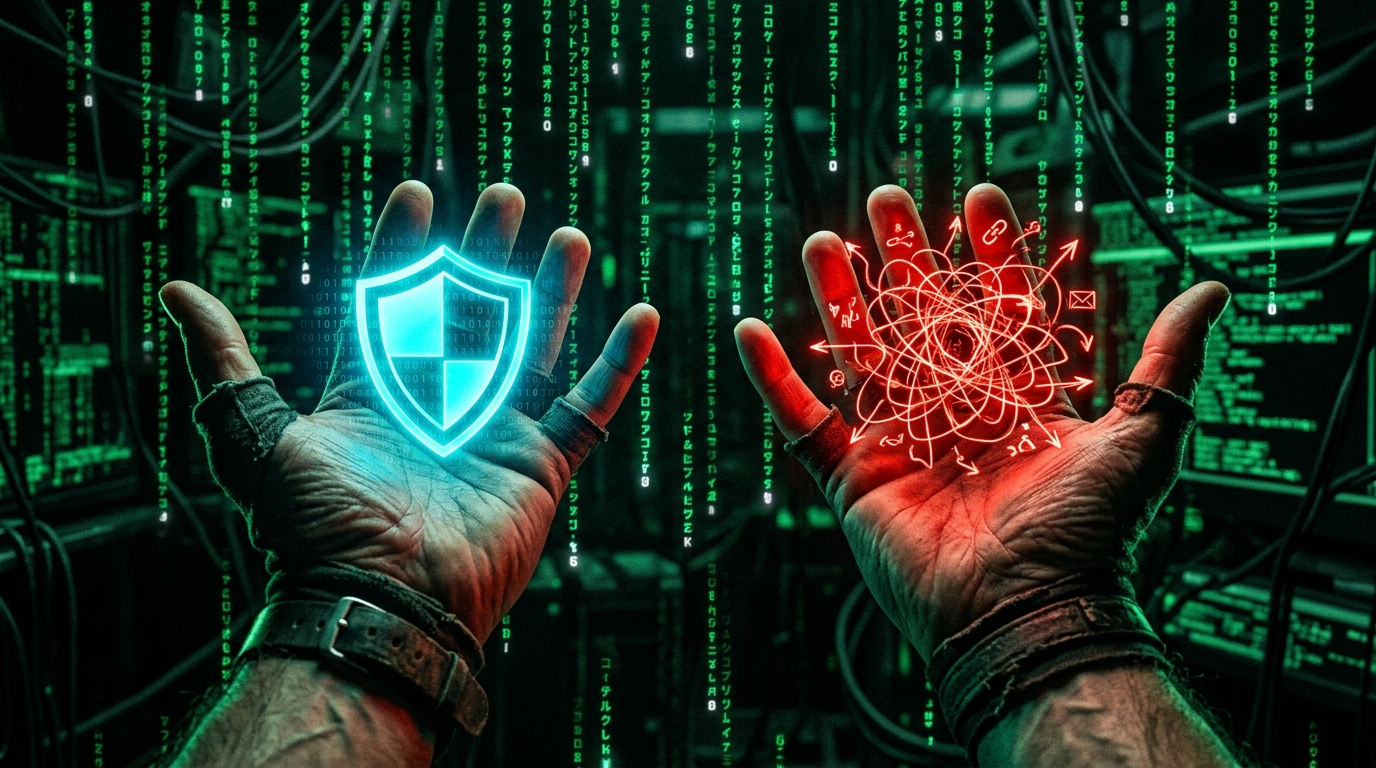
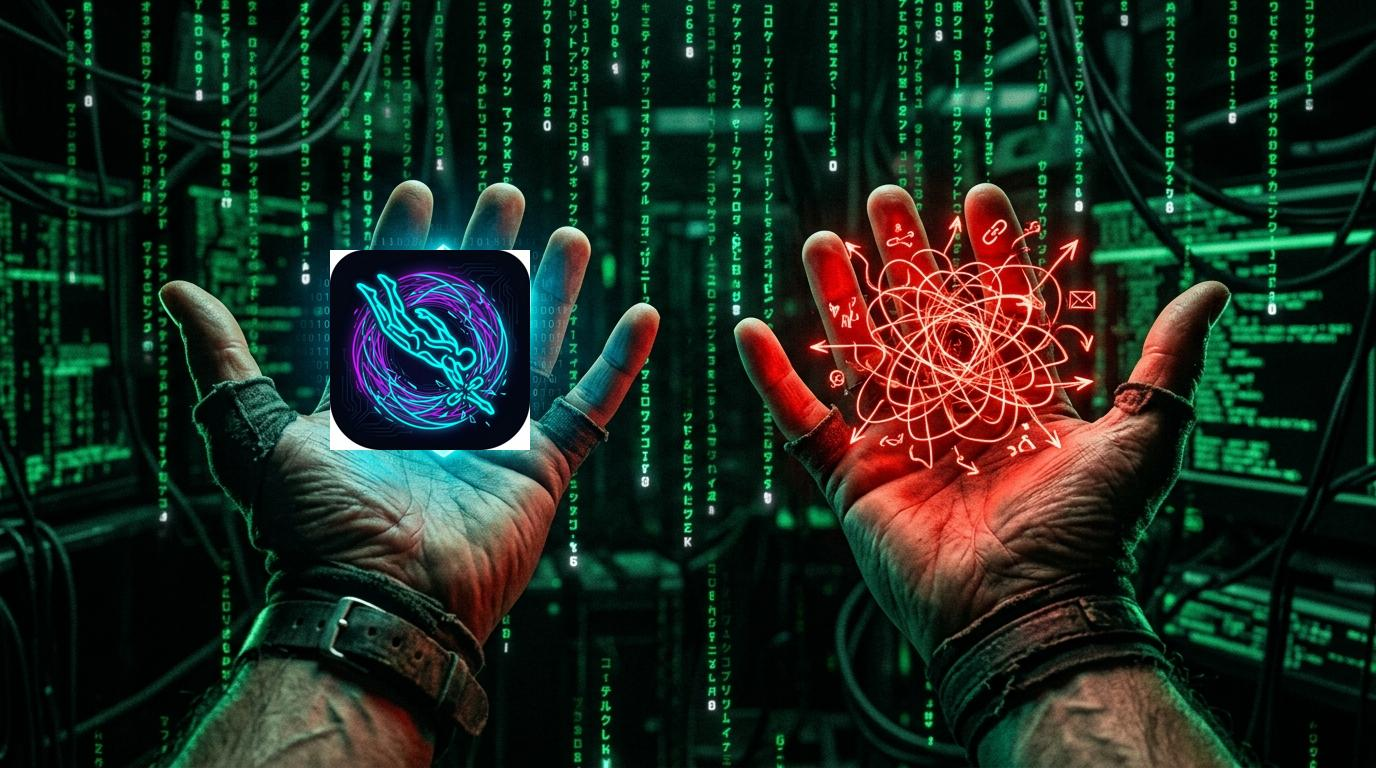
Fix HTML layout and reposition hero image

Changed region(s): [[0.2188, 0.3125, 0.4062, 0.5938]]

diff --git a/index.html b/index.html
@@ -10,7 +10,7 @@
     <link rel="preconnect" href="https://fonts.googleapis.com">
     <link rel="preconnect" href="https://fonts.gstatic.com" crossorigin>
     <link href="https://fonts.googleapis.com/css2?family=Share+Tech+Mono&display=swap" rel="stylesheet">
-    <link rel="stylesheet" href="styles.css?v=5">
+    <link rel="stylesheet" href="styles.css?v=6">
     <link rel="icon" type="image/png" href="app-icon.png">
     <!-- Google Analytics -->
     <script async src="https://www.googletagmanager.com/gtag/js?id=G-DCBG7D68JL"></script>
@@ -41,7 +41,6 @@
 
     <main>
         <section class="hero container">
-            <img src="choice.jpg" alt="Choose your pill" class="hero-image">
             <div class="hero-badge">🚀 Now Available on Android & iOS</div>
             
             <div class="hero-content">
@@ -50,6 +49,8 @@
                     Stop scrolling aimlessly. AntiRecsys helps you browse social media with intention by focusing on topics
                     YOU choose, not what algorithms want you to see.
                 </p>
+                
+                <img src="choice.jpg" alt="Choose your pill" class="hero-image">
                 
                 <div class="download-section">
                     <p class="download-instruction">To download the app, please click the App Store or Google Play button below:</p>